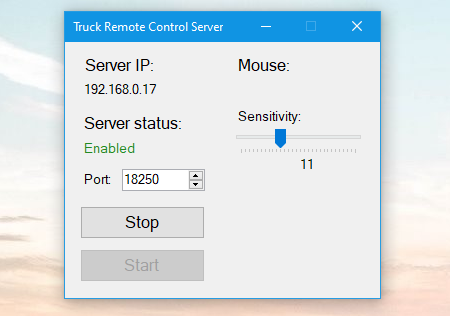
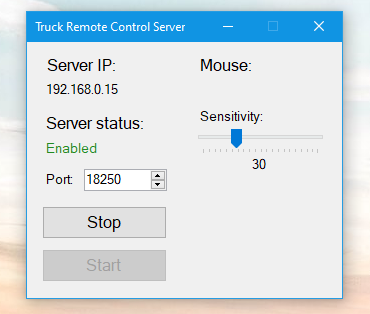
Sensitivity changing improved

diff --git a/MainForm.Designer.cs b/MainForm.Designer.cs
@@ -114,12 +114,13 @@
             // sensitivityTrackBar
             // 
             this.sensitivityTrackBar.Location = new System.Drawing.Point(163, 85);
-            this.sensitivityTrackBar.Maximum = 39;
-            this.sensitivityTrackBar.Minimum = 10;
+            this.sensitivityTrackBar.Maximum = 100;
+            this.sensitivityTrackBar.Minimum = 1;
             this.sensitivityTrackBar.Name = "sensitivityTrackBar";
             this.sensitivityTrackBar.Size = new System.Drawing.Size(141, 45);
             this.sensitivityTrackBar.TabIndex = 7;
-            this.sensitivityTrackBar.Value = 18;
+            this.sensitivityTrackBar.TickFrequency = 5;
+            this.sensitivityTrackBar.Value = 30;
             this.sensitivityTrackBar.Scroll += new System.EventHandler(this.SensitivityTrackBar_Scroll);
             // 
             // label3
@@ -180,11 +181,11 @@
             this.labelSensitivity.AutoSize = true;
             this.labelSensitivity.Font = new System.Drawing.Font("Microsoft Sans Serif", 9.75F, System.Drawing.FontStyle.Regular, System.Drawing.GraphicsUnit.Point, ((byte)(204)));
             this.labelSensitivity.ForeColor = System.Drawing.SystemColors.ControlText;
-            this.labelSensitivity.Location = new System.Drawing.Point(229, 114);
+            this.labelSensitivity.Location = new System.Drawing.Point(222, 114);
             this.labelSensitivity.Name = "labelSensitivity";
-            this.labelSensitivity.Size = new System.Drawing.Size(15, 16);
+            this.labelSensitivity.Size = new System.Drawing.Size(22, 16);
             this.labelSensitivity.TabIndex = 13;
-            this.labelSensitivity.Text = "9";
+            this.labelSensitivity.Text = "30";
             // 
             // MainForm
             // 

diff --git a/MainForm.cs b/MainForm.cs
@@ -72,7 +72,7 @@ namespace TruckRemoteControlServer
         private void SensitivityTrackBar_Scroll(object sender, EventArgs e)
         {
             PCController.Sensitivity = sensitivityTrackBar.Value;
-            labelSensitivity.Text = (sensitivityTrackBar.Value - 9).ToString();
+            labelSensitivity.Text = (sensitivityTrackBar.Value).ToString();
         }
 
         private void MainForm_FormClosing(object sender, FormClosingEventArgs e)

diff --git a/Input/PCController.cs b/Input/PCController.cs
@@ -4,7 +4,7 @@ namespace TruckRemoteControlServer
 {
     class PCController
     {
-        public static int Sensitivity = 18;
+        public static int Sensitivity = 30;
 
         private int prevMovement;
 
